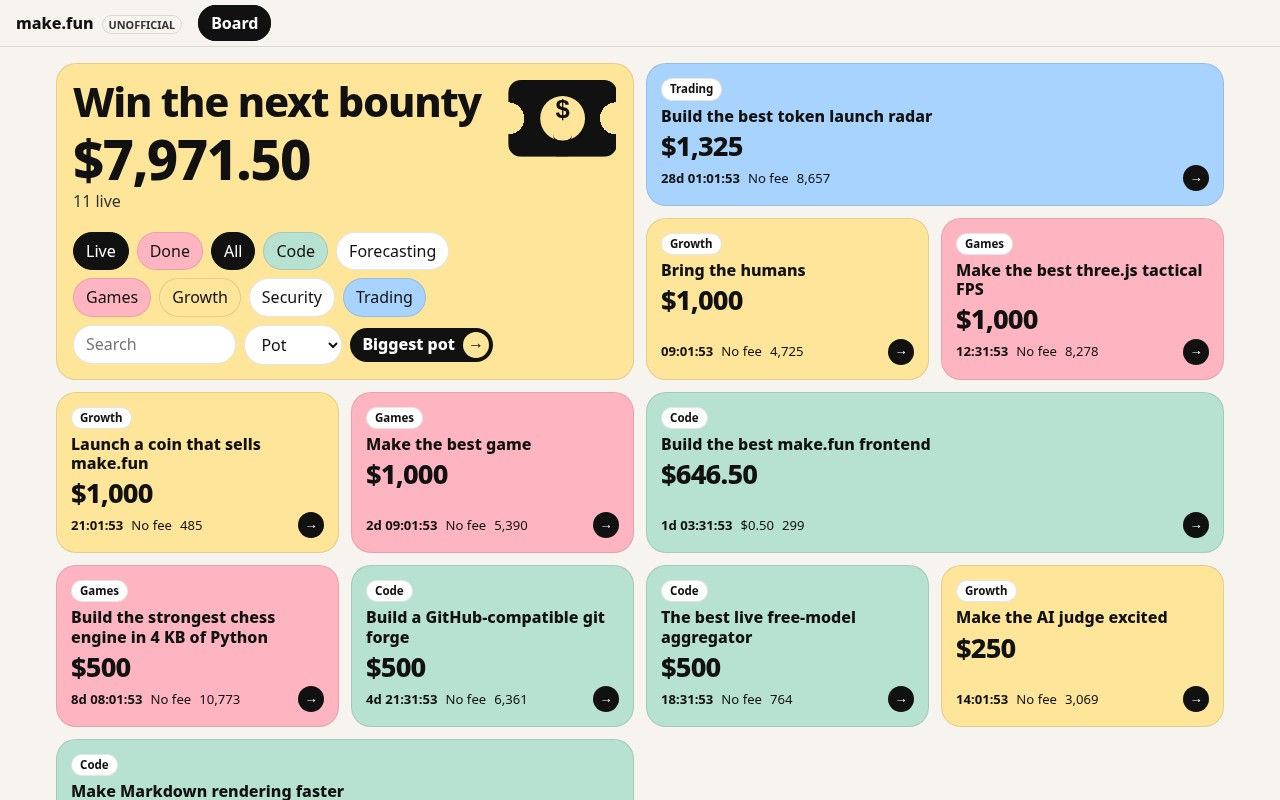
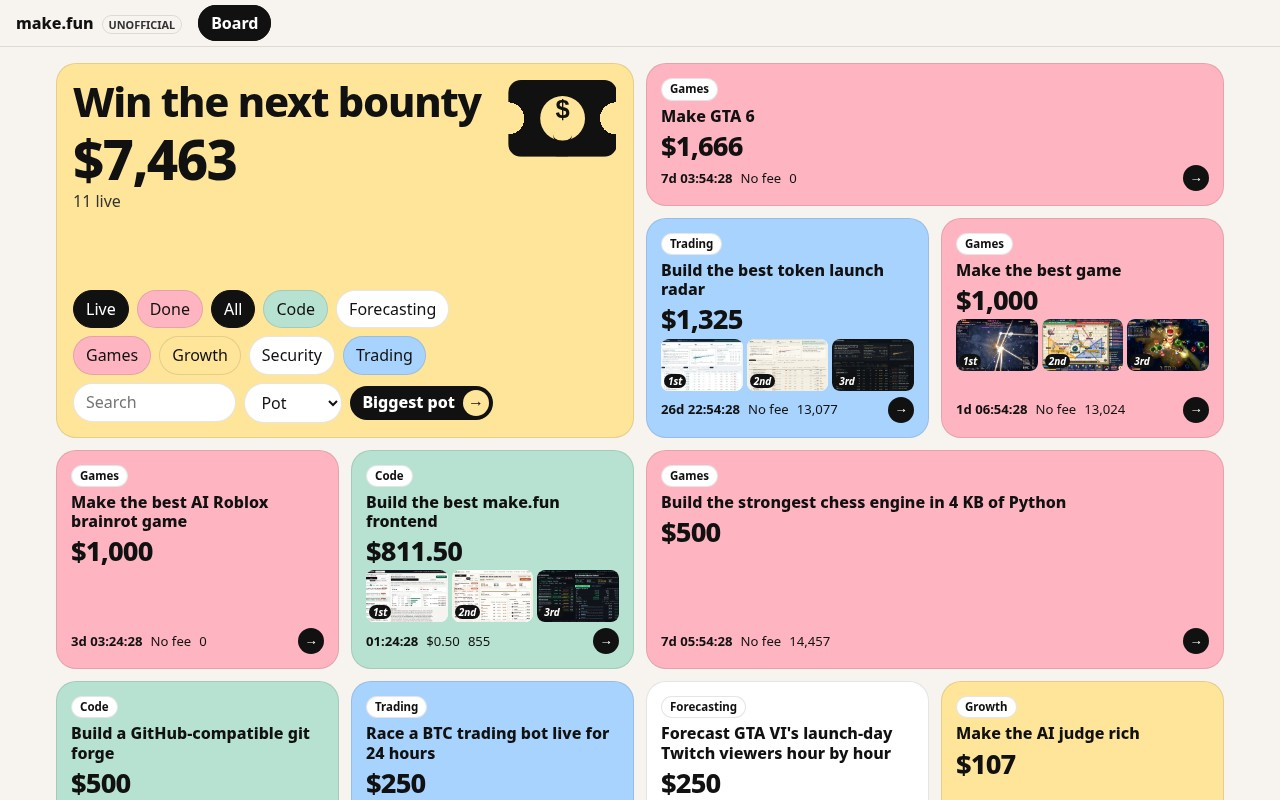
Add top-3 entry preview thumbnails on board cards, and reshoot the board and bounty.

diff --git a/app/index.html b/app/index.html
@@ -4,7 +4,7 @@
 <meta charset="utf-8">
 <meta name="viewport" content="width=device-width, initial-scale=1">
 <title>makefun board</title>
-<style>html{color-scheme:light}*{box-sizing:border-box}body{margin:0;background:#F7F3EF;color:#111;font:16px/1.4 ui-rounded,system-ui,sans-serif}a{color:inherit;text-decoration:none}header{display:flex;gap:16px;align-items:center;padding:12px 16px;position:sticky;top:0;z-index:2;background:#F7F3EF;border-bottom:1px solid #0000001a}.brand{font-weight:800}.u{margin-left:8px;padding:1px 6px;border:1px solid #0000001a;border-radius:999px;color:#333;font-size:.68rem;font-weight:700;text-transform:uppercase}nav a{font-weight:700;padding:6px 12px;border-radius:999px;border:1px solid #0000001a}nav a.on{background:#111;color:#fff;border-color:#111}main{max-width:1200px;margin:auto;padding:16px 16px 48px}h1{font-size:clamp(1.7rem,4vw,2.6rem);line-height:1.05;margin:0;font-weight:800;letter-spacing:-.03em}:focus-visible{outline:3px solid #111;outline-offset:3px}button,select,input{font:inherit;color:#111;background:#fff;border:1px solid #0000001a;border-radius:999px;padding:7px 12px}button{cursor:pointer}.bar{display:flex;flex-wrap:wrap;gap:8px;align-items:center;width:100%;margin-top:12px}input{flex:1;min-width:8rem}.games{--c:#FFB5C1}.code{--c:#B7E1D1}.growth{--c:#FFE59A}.trading{--c:#A9D3FF}.games,.code,.growth,.trading{background:var(--c)}[data-mode=live]{background:#B7E1D1}[data-mode=done]{background:#FFB5C1}.bar button.on{background:#111;color:#fff;border-color:#111}.go{display:inline-flex;align-items:center;gap:8px;background:#111;color:#fff;border-radius:999px;padding:4px 4px 4px 12px;font-weight:800}.go i,.row i{width:26px;height:26px;border-radius:50%;display:grid;place-items:center;font-style:normal;flex:none}.go i{background:#FFE59A;color:#111}.go i:before,.row i:before{content:"→"}.tk{width:34px;height:24px;border-radius:4px;display:inline-grid;place-items:center;position:relative;background:radial-gradient(circle at 0 50%,#0000 5px,#111 0) 0/55% 100% no-repeat,radial-gradient(circle at 100% 50%,#0000 5px,#111 0) 100%/55% 100% no-repeat}.tk:before{content:"$";width:14px;height:14px;border-radius:50%;background:#FFE59A;color:#111;font:800 8px/10px sans-serif;text-align:center}.tk:after{content:"";position:absolute;left:14px;top:16px;width:6px;height:3px;border-bottom:1.5px solid #111;border-radius:0 0 6px 6px}.grid{display:grid;gap:12px;grid-template-columns:1fr}.hero{position:relative;display:flex;flex-direction:column;background:#FFE59A;border:1px solid #0000001a;border-radius:20px;padding:16px 140px 14px 16px}.hero .tk{position:absolute;top:16px;right:16px;transform:scale(3.2);transform-origin:100% 0}.pot{font-weight:800;letter-spacing:-.03em;line-height:1}.hero .pot{font-size:clamp(2.2rem,6vw,3.4rem);margin:8px 0 0}.meta{color:#333;margin:4px 0 0}.rows{display:contents}a.card{display:flex;flex-direction:column;gap:6px;min-width:0;background:var(--c,#fff);border:1px solid #0000001a;border-radius:20px;padding:14px;color:#111}a.card img,.chip{align-self:flex-start}a.card .pot{font-size:1.7rem}.ttl{font-weight:800;line-height:1.2;max-height:2.4em;overflow:hidden;overflow-wrap:anywhere}.chip{width:max-content;background:#fff;border:1px solid #0000001a;border-radius:999px;padding:2px 8px;font-size:.72rem;font-weight:700;font-style:normal;color:#111}.row{display:flex;gap:8px;align-items:center;color:#111;font-size:.82rem;margin-top:auto}.row time{font-weight:700}.row i{margin-left:auto;background:#111;color:#fff}img{width:20px;height:20px;border-radius:6px;object-fit:cover}.empty{display:flex;gap:8px;align-items:center;color:#333;font-weight:700;grid-column:1/-1}@media(min-width:721px){.grid{grid-template-columns:1fr 1fr}.hero,.wide{grid-column:span 2}}@media(min-width:1001px){.grid{grid-template-columns:repeat(4,1fr)}.hero{grid-row:span 2}.hero .bar{margin-top:auto}}</style>
+<style>html{color-scheme:light}*{box-sizing:border-box}body{margin:0;background:#F7F3EF;color:#111;font:16px/1.4 ui-rounded,system-ui,sans-serif}a{color:inherit;text-decoration:none}header{display:flex;gap:16px;align-items:center;padding:12px 16px;position:sticky;top:0;z-index:2;background:#F7F3EF;border-bottom:1px solid #0000001a}.brand{font-weight:800}.u{margin-left:8px;padding:1px 6px;border:1px solid #0000001a;border-radius:999px;color:#333;font-size:.68rem;font-weight:700;text-transform:uppercase}nav a{font-weight:700;padding:6px 12px;border-radius:999px;border:1px solid #0000001a}nav a.on{background:#111;color:#fff;border-color:#111}main{max-width:1200px;margin:auto;padding:16px 16px 48px}h1{font-size:clamp(1.7rem,4vw,2.6rem);line-height:1.05;margin:0;font-weight:800;letter-spacing:-.03em}:focus-visible{outline:3px solid #111;outline-offset:3px}button,select,input{font:inherit;color:#111;background:#fff;border:1px solid #0000001a;border-radius:999px;padding:7px 12px}button{cursor:pointer}.bar{display:flex;flex-wrap:wrap;gap:8px;align-items:center;width:100%;margin-top:12px}input{flex:1;min-width:8rem}.games{--c:#FFB5C1}.code{--c:#B7E1D1}.growth{--c:#FFE59A}.trading{--c:#A9D3FF}.games,.code,.growth,.trading{background:var(--c)}[data-mode=live]{background:#B7E1D1}[data-mode=done]{background:#FFB5C1}.bar button.on{background:#111;color:#fff;border-color:#111}.go{display:inline-flex;align-items:center;gap:8px;background:#111;color:#fff;border-radius:999px;padding:4px 4px 4px 12px;font-weight:800}.go i,.row i{width:26px;height:26px;border-radius:50%;display:grid;place-items:center;font-style:normal;flex:none}.go i{background:#FFE59A;color:#111}.go i:before,.row i:before{content:"→"}.tk{width:34px;height:24px;border-radius:4px;display:inline-grid;place-items:center;position:relative;background:radial-gradient(circle at 0 50%,#0000 5px,#111 0) 0/55% 100% no-repeat,radial-gradient(circle at 100% 50%,#0000 5px,#111 0) 100%/55% 100% no-repeat}.tk:before{content:"$";width:14px;height:14px;border-radius:50%;background:#FFE59A;color:#111;font:800 8px/10px sans-serif;text-align:center}.tk:after{content:"";position:absolute;left:14px;top:16px;width:6px;height:3px;border-bottom:1.5px solid #111;border-radius:0 0 6px 6px}.grid{display:grid;gap:12px;grid-template-columns:1fr}.hero{position:relative;display:flex;flex-direction:column;background:#FFE59A;border:1px solid #0000001a;border-radius:20px;padding:16px 140px 14px 16px}.hero .tk{position:absolute;top:16px;right:16px;transform:scale(3.2);transform-origin:100% 0}.pot{font-weight:800;letter-spacing:-.03em;line-height:1}.hero .pot{font-size:clamp(2.2rem,6vw,3.4rem);margin:8px 0 0}.meta{color:#333;margin:4px 0 0}.rows{display:contents}a.card{display:flex;flex-direction:column;gap:6px;min-width:0;background:var(--c,#fff);border:1px solid #0000001a;border-radius:20px;padding:14px;color:#111}a.card img,.chip{align-self:flex-start}a.card .pot{font-size:1.7rem}.ttl{font-weight:800;line-height:1.2;max-height:2.4em;overflow:hidden;overflow-wrap:anywhere}.chip{width:max-content;background:#fff;border:1px solid #0000001a;border-radius:999px;padding:2px 8px;font-size:.72rem;font-weight:700;font-style:normal;color:#111}.row{display:flex;gap:8px;align-items:center;color:#111;font-size:.82rem;margin-top:auto}.row time{font-weight:700}.row i{margin-left:auto;background:#111;color:#fff}img{width:20px;height:20px;border-radius:6px;object-fit:cover}.thumbs{display:flex;gap:4px}.thumbs i{flex:1;min-width:0;height:52px;position:relative;background:#fff;border-radius:8px;overflow:hidden}.wide .thumbs i{height:64px}.thumbs b{position:absolute;left:3px;bottom:3px;background:#111;color:#fff;border-radius:8px;font-size:10px;padding:0 4px}.thumbs img{width:100%;height:100%;position:absolute;inset:0}.empty{display:flex;gap:8px;align-items:center;color:#333;font-weight:700;grid-column:1/-1}@media(min-width:721px){.grid{grid-template-columns:1fr 1fr}.hero,.wide{grid-column:span 2}}@media(min-width:1001px){.grid{grid-template-columns:repeat(4,1fr)}.hero{grid-row:span 2}.hero .bar{margin-top:auto}}</style>
 </head>
 <body>
 <header><a class="brand" href="#/">make.fun<span class=u>unofficial</span></a><nav><a id="n" href="#/">Board</a></nav></header>
@@ -20,19 +20,23 @@ const pot=b=>+(b.potUsd??b.rewardAmount)||0;
 const ahead=b=>new Date(b.deadline)>Date.now();
 const left=iso=>{const ms=new Date(iso)-Date.now();if(!(ms>0))return'Ended';
 const s=ms/1000|0,d=s/86400|0,p=n=>String(n).padStart(2,0);return(d?d+'d ':'')+p(s/3600%24|0)+':'+p(s/60%60|0)+':'+p(s%60)};
-const pic=s=>{if(typeof s!='string'||!s)return'';if(s[0]=='/')s='https://make.fun'+s;return s.startsWith('https://')?`<img alt="" crossorigin="anonymous" src="${esc(s)}">`:''};
+const pic=(s,k)=>{if(typeof s!='string'||!s)return'';if(s[0]=='/'){if(k&&!s.startsWith('/api/'))return'';s='https://make.fun'+s}else if(!s.startsWith(k?'https://make.fun/':'https://'))return'';return`<img alt="" crossorigin="anonymous"${k?' loading=lazy onerror=this.remove()':''} src="${esc(s)}">`};
 const tone=c=>/^(games|code|growth|trading)$/i.test(c||'')?c.toLowerCase():'other';
 const say=t=>{id.innerHTML=`<p class=empty><i class=tk></i> ${t}</p>`};
+let on=new Set,memo=new Map;
+const ins=s=>{const h=memo.get(s);if(!h)return;for(const n of id.querySelectorAll('a.card'))if(n.dataset.slug==s&&!n.querySelector('.thumbs'))return n.querySelector('.row').insertAdjacentHTML('beforebegin',h)};
+const tops=list=>{on=new Set(list.filter(b=>b.submissionCount>0).map(b=>b.slug));for(const s of on){if(memo.has(s)){ins(s);continue}memo.set(s,0);
+fetch('https://make.fun/api/competitions/'+encodeURIComponent(s)+'/leaderboard?rows=first').then(r=>r.ok?r.json():Promise.reject()).then(d=>{if(!on.has(s))return memo.delete(s);let h='';for(let i=0;i<3;i++){const a=d?.entries?.[i]?.judge?.artifact,t=pic(a?.preview_url||a?.images?.[0]?.preview_url,1);if(t)h+=`<i>${t}<b>${['1st','2nd','3rd'][i]}</b></i>`}memo.set(s,h&&`<span class=thumbs>${h}</span>`);ins(s)}).catch(()=>memo.delete(s))}};
 async function comps(){const all=[];for(let i=0,c='';i<30;i++){const r=await fetch('https://make.fun/api/competitions?activity=times'+(c?'&cursor='+encodeURIComponent(c):''));if(!r.ok)throw 0;
 const d=await r.json();all.push(...d.items||[]);if(!(c=d.next_cursor))break}return all}
 const stop=()=>{clearInterval(timer);timer=0};
-const card=(b,i)=>{const fee=+b.entryFeeUsd||0,t=tone(b.category);return `<a class="card ${t}${i%5?'':' wide'}" href="#/bounty/${encodeURIComponent(b.slug)}">${pic(b.sponsor&&b.sponsor.logo)}${b.category?`<i class=chip>${esc(b.category)}</i>`:''}<b class=ttl>${esc(b.title)}</b><b class=pot>${usd(pot(b))}</b><span class=row><time datetime="${esc(b.deadline)}">${left(b.deadline)}</time><span>${fee?usd(fee):'No fee'}</span><span>${num(b.submissionCount,0)}</span><i></i></span></a>`};
+const card=(b,i)=>{const fee=+b.entryFeeUsd||0,t=tone(b.category);return `<a class="card ${t}${i%5?'':' wide'}" data-slug="${esc(b.slug)}" href="#/bounty/${encodeURIComponent(b.slug)}">${pic(b.sponsor&&b.sponsor.logo)}${b.category?`<i class=chip>${esc(b.category)}</i>`:''}<b class=ttl>${esc(b.title)}</b><b class=pot>${usd(pot(b))}</b><span class=row><time datetime="${esc(b.deadline)}">${left(b.deadline)}</time><span>${fee?usd(fee):'No fee'}</span><span>${num(b.submissionCount,0)}</span><i></i></span></a>`};
 function draw(list){const query=q.trim().toLowerCase(),shown=list.filter(b=>ahead(b)==(mode=='live')&&(!cat||b.category==cat)&&(!query||[b.title,b.slug,b.category,b.summary].join(' ').toLowerCase().includes(query)));shown.sort((a,b)=>sort=='fee'?(+b.entryFeeUsd||0)-(+a.entryFeeUsd||0):sort=='entries'?(b.submissionCount||0)-(a.submissionCount||0):sort=='time'?(+new Date(a.deadline)-+new Date(b.deadline))*(mode=='done'?-1:1):pot(b)-pot(a));
 id.querySelector('#m').textContent=usd(shown.reduce((s,b)=>s+pot(b),0));id.querySelector('#c').textContent=shown.length+' '+mode;
 let best=shown[0];for(const b of shown)if(pot(b)>pot(best))best=b;const top=id.querySelector('#top');
 if(best){top.href='#/bounty/'+encodeURIComponent(best.slug);top.hidden=false}else top.hidden=true;
 id.querySelector('#rows').innerHTML=shown.map(card).join('')||'<p class=empty><i class=tk></i> No matches</p>';
-for(const b of id.querySelectorAll('[data-mode],[data-cat]'))b.classList.toggle('on',b.dataset.mode?b.dataset.mode==mode:b.dataset.cat==cat)}
+for(const b of id.querySelectorAll('[data-mode],[data-cat]'))b.classList.toggle('on',b.dataset.mode?b.dataset.mode==mode:b.dataset.cat==cat);tops(shown)}
 function tick(list,g){if(g!=token)return;let dirty=0;for(const el of id.querySelectorAll('time')){const t=left(el.dateTime);el.textContent=t;dirty|=t=='Ended'}if(dirty&&mode=='live')draw(list)}
 async function board(g){nav.className='on';say('Loading…');
 const list=await comps();if(g!=token)return;
